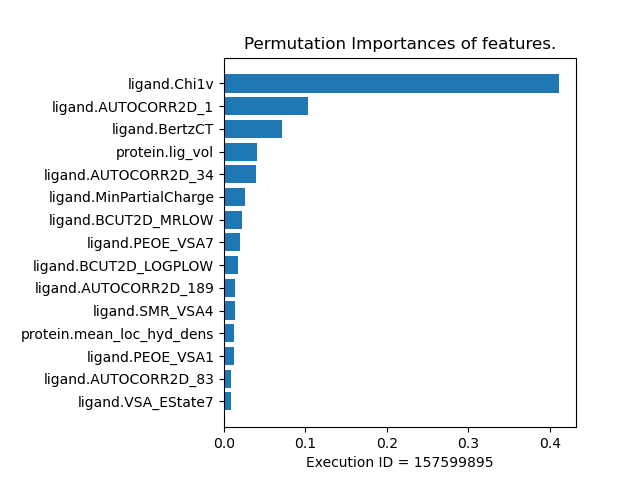
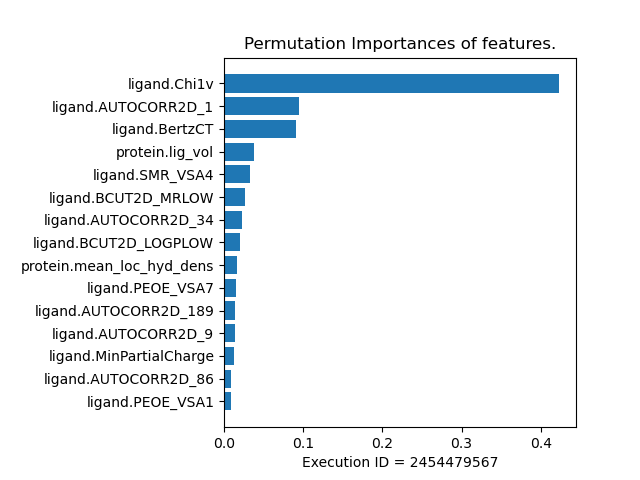
Finishing all the reporting for the work done till now.

diff --git a/report/report.tex b/report/report.tex
@@ -444,31 +444,82 @@ The rationale was that using the above score function we could go to a local min
 Both the initialization strategies gave similar results as shown in Table~\ref{table:1}
 
 \subsection{Random Forest Regression}
-A random forest regression is an ensemble model which uses an ensemble of trees
-to calculate the output variable.
-Each node in the tree reduces tries to reduce the entropy of the data at hand.
-The $R^2$ score we got was $> 0.75$ for an ensemble of $100$ trees.
+Random forest regression is an ensemble ML model of regression trees.
+When training each tree,  the algorithm finds out which feature value can divide the data into 2 groups to yield the lowest sum of squared values on both sides (The criterion can be different as well e.g. lowest absolute error).
+Then each of the sub-data is split recursively till a stopping criterion (e.g a set number of data points in the leaf).
+
+For each tree,  a subset of the data is used for training. 
+The subset of data is sampled with replacement a.k.a bagging.
+After training,  the bunch of "Experts" that are good at different data subsets predict the output of new given inputs.
+The average of the predicted outputs is the result of the whole random forest regressor.
+
+This model is non-linear.
+One advantage is that there is no need for any assumption about the data.
+Moreover,  random forests can handle categorical features together with the real-valued features very easily.
+On the negative side,  the function represented by the ensemble cannot be easily represented and has to be interpreted as a black-box function.
+
+Figure~\ref{fig:RFMModel} shows the validation and accuracy results obtained by a random forest of 100 trees when we use all the 457 features as input.
+As you can see,  this model far outperforms the linear one.
+
+
+\begin{figure}
+     \centering
+     \begin{subfigure}[b]{0.45\textwidth}
+         \centering
+         \includegraphics[scale=0.45]{images/accuracy_train_rfr}
+         \caption{Training Accuracy ($R^2 \approx 0.971$)}
+        \label{fig:TrainingAccuracyRFM}
+     \end{subfigure}
+     \hfill
+     \begin{subfigure}[b]{0.45\textwidth}
+         \centering
+         \includegraphics[scale=0.45]{images/accuracy_validate_rfr}
+        \caption{Validation Accuracy ($R^2 \approx 0.797$)}
+        \label{fig:ValidationAccuracyRFM}
+     \end{subfigure}
+     \caption{Random Forest Regressor with 457 features and 100 trees.}
+     \label{fig:RFMModel}
+\end{figure}
+
 
 \subsubsection{Feature Importance calculation}
 The Random Forest regression model fitting is very expensive as compared to the simple linear regression.
 Hence the same strategy cannot be used for feature selection as used in the linear models.
-We used 2 main methods to determine the importance of features in the model
+We used the following strategies to determine the importance of features in the model.
+
 \begin{itemize}
-\item \textbf{Gini Importance} - This is given by default by the model. The model 
-calculates the amount of entropy reduction of that each feature does when it divides the data using the OOB score. (Out of bag Score)
-\item \textbf{Permutation Importance} - This is a model agnostic method to determine the importance of features in a regression. 
-It tries to calculate the reduction in the accuracy we shuffle each column.
+\item \textbf{Gini Importance (or) Decrease in impurity}.  This is calculated by the model itself.
+For every feature,  it calculates how much decrease in the split criterion the feature contributes to the entire ensemble (i.e in every node its used in all the trees).
+The disadvantage is that they cannot be reliable when the features have a high cardinality.  Figure~\ref{fig:GiniImportanceLabel} illustrates this importance.
+\item \textbf{Permutation Importance} - This is a model agnostic method.
+It tries to calculate the reduction in the accuracy we shuffle each feature.
+The more the reduction the more important the feature is.
+The disadvantage is that since each feature is checked independently,  correlated input features make the results unreliable. 
+If feature $A$ and feature $B$ are correlated,  the shuffling of $A$ may not impact the model as the model can rely on $B$ for its prediction.  Figure~\ref{fig:PermutationImportanceLabel} illustrates this importance.
 \end{itemize}
-\includegraphics[scale=0.7]{Gini_importance}
 
-\includegraphics[scale=0.7]{Permutation_importance}
-
-The issue with the above methods is that if there is any hidden correlation between input features then it will reduce the importance of the correlated features.
+\begin{figure}
+     \centering
+     \begin{subfigure}[b]{0.45\textwidth}
+         \centering
+         \includegraphics[scale=0.45]{images/Gini_importance}
+         \caption{Gini importance}
+        \label{fig:GiniImportanceLabel}
+     \end{subfigure}
+     \hfill
+     \begin{subfigure}[b]{0.45\textwidth}
+         \centering
+         \includegraphics[scale=0.45]{images/Permutation_importance}
+        \caption{Permutation importance}
+        \label{fig:PermutationImportanceLabel}
+     \end{subfigure}
+     \caption{Feature Importance calculation of Random Forest Regressor}
+     \label{fig:RFMFILable}
+\end{figure}
 
 \subsection{Permutation Importance and genetic algorithm}
 To overcome the issue with the above feature importance selection, we plan to use a combination of the concepts of permutation importance and genetic algorithm to find out the importance of the selected features.
-
-Results - YET TO IMPLEMENT
+This is because it is very expensive to refit the model and cheap enough to check the results of shuffling the model.
 
 \section{Discussion}
 
